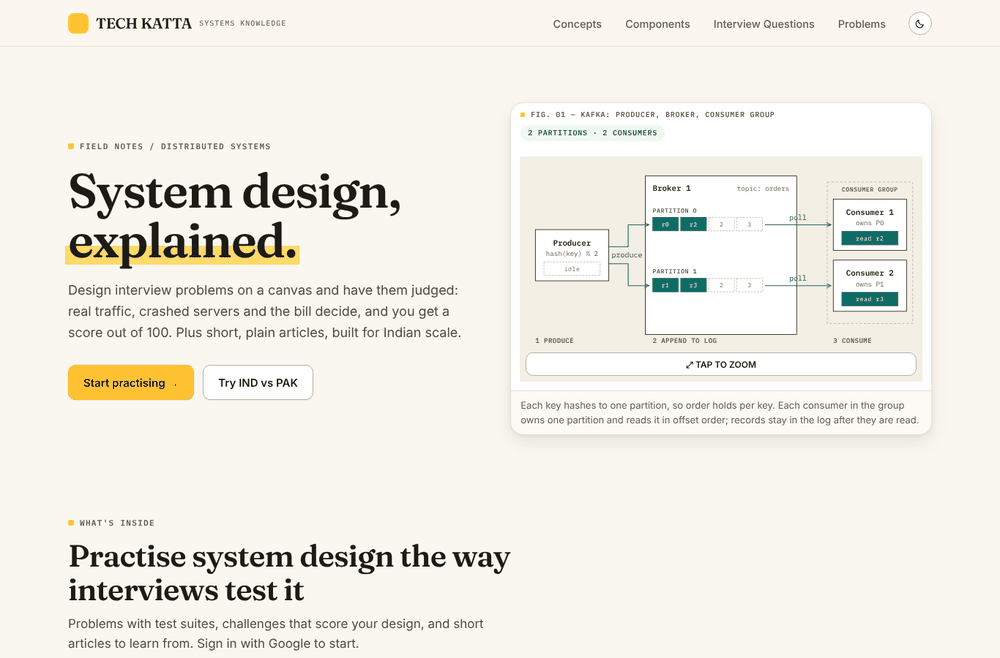
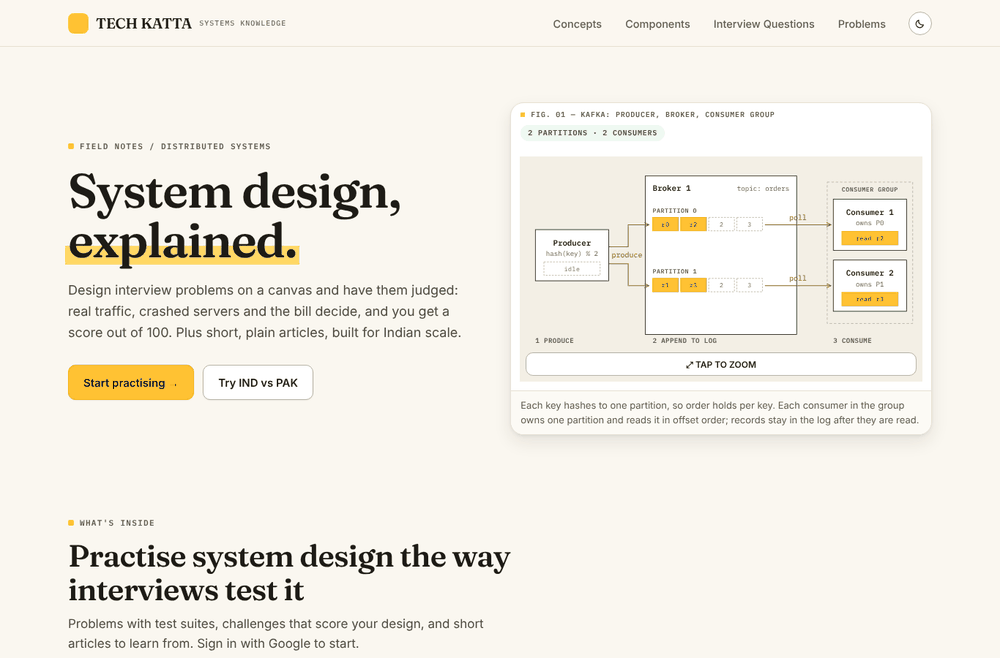
UI redesign spec: figures stay in the yellow family (#160)
--accent is ochre in light and marigold in dark; filled figure boxes use the brand colour with ink text (WP1 step 7). Teal dropped. Rules, contrast figures and pictures updated.

diff --git a/20-UI-REDESIGN-SPEC.md b/20-UI-REDESIGN-SPEC.md
@@ -1,6 +1,6 @@
 # 20 — UI redesign spec: "Katta Paper"
 
-**Status:** approved direction to build, not yet built. Written 12 Nov 2026; revised the same day, twice: the old blue in figures and the canvas replaced by teal after the owner's review of the first pictures; then a motion layer added (section 4.5, WP8, Appendix D).
+**Status:** approved direction to build, not yet built. Written 12 Nov 2026; revised the same day after the owner's reviews: the old blue in figures and the canvas replaced (first by teal, rejected; now by ochre lines with marigold fills, so the whole site stays in one yellow family), and a motion layer added (section 4.5, WP8, Appendix D).
 **Who reads this:** the agent that will write the code. It is written so that you can follow it top to bottom
 without making design decisions. Where a decision belongs to the owner, it is listed in section 10 and you leave it alone.
 **What it replaces:** the "Swiss publishing" look that is live on tech.katta.cc, and the direction in the app repo's
@@ -20,6 +20,11 @@ Look at them before you start, and compare your build against them when you fini
 | `07-workspace.png`, `11-workspace-result.png` | Problem workspace: a component selected on the canvas; the result sheet after Run |
 | `08-phones.png` | Pixel 7: landing, section, problems, article (light), article and landing (dark) |
 | `09-dark.png` | Dark mode: landing, problems, workspace |
+| `12-figures-ochre-marigold.png` | **The final figure colours**: landing diagram light and dark, and the canvas with a component selected |
+
+**Colour note on the pictures.** Pictures 01, 02, 05, 07 and 12 show the final colours. Pictures 08 to 11 were taken
+one revision earlier, when figure lines and links were teal: use them for layout, sizes and spacing only. Wherever
+they show teal, the build must show ochre lines and marigold fills as in picture 12.
 
 ---
 
@@ -30,7 +35,7 @@ Look at them before you start, and compare your build against them when you fini
    (commit `01adfbe` of `tech-katta`, the state after PR #308). Do not "improve" values. If something looks wrong,
    first check that you pasted the block at the **end** of the right file.
 3. **Do not change any JSX, content, route, test or backend file** except the small edits listed in section 8
-   (WP1, WP2 and WP8). The redesign is almost entirely CSS.
+   (WP1, WP2 and WP8; WP1 includes one-line edits to `palette.js` and `main.jsx`). The redesign is almost entirely CSS.
 4. **No colour codes outside `frontend/src/theme/`.** `theme.test.js` fails the build if you write `#abc`, `rgb(…)`
    or a colour keyword in any other stylesheet or script. Use `var(--name)`.
 5. **Every change must look right in light and dark, on a desktop and on a phone.** About three quarters of visitors
@@ -160,7 +165,7 @@ personality, never corporate and never a toy.
 | Headings | **Fraunces** (a serif), weight 600 | Warm and confident, like Brilliant and samwho; every competitor uses a plain sans, so this alone makes the site recognisable. Tested against seven other typefaces in a specimen |
 | Body and controls | **Inter** (already on the site) | The most readable choice at small sizes; no new download for body text |
 | Labels | **IBM Plex Mono** (already on the site), only for eyebrows, table heads and figure captions | Keeps the engineering flavour, in small doses |
-| **Second colour** | **Peacock teal `#0f6b66`** replaces the old blue everywhere: links, focus rings, hover outlines, "the path that works" in every figure, and the handles, arrows and labels on the canvas | The old blue (`#2855d9`) is cold and fought with the warm paper; the owner pointed this out on the first build. `--accent` is read 228 times in the stylesheets and by every figure through `palette.js`, so changing the token recolours all of them at once. Teal sits beside marigold and paper, and still reads clearly against red (trouble) |
+| **Working colour** | **Ochre `#94600a`**, the dark end of the marigold family, replaces the old blue as `--accent`: links, focus rings, hover outlines, lines and labels of "the path that works" in every figure, handles and live arrows on the canvas. **Filled boxes in figures are marigold with ink text, never a solid ochre block.** In dark mode `--accent` is marigold itself | The owner rejected, in turn, the old blue (cold), teal (a foreign colour in the middle of the page) and solid ochre boxes (muddy). One colour family keeps the whole site in the yellow scheme. `--accent` is read 228 times in the stylesheets and by every figure through `palette.js`, so the token recolours all of them at once |
 | Warning colour | Moved from amber to orange | So a warning never looks like the brand |
 | One dark card | The "practise this" call-out inside an article is ink-coloured with marigold text | One strong invitation per article; used nowhere else |
 
@@ -169,7 +174,8 @@ personality, never corporate and never a toy.
 - No pixel, dot-matrix or bitmap lettering. No pastel wash cards in several colours. No buttons with a thick dark
   bottom edge. No tilted cards. (These are another site's signatures.)
 - No gradients except the highlighter stroke. No glow, no glass cards, no neon.
-- No third colour. Marigold is the brand; teal is the working colour for links, figures and the canvas. Nothing else. **No blue anywhere**: if you see the old blue (`#2855d9`) or any blue in the build, a token was missed.
+- No second hue. Everything coloured is in the marigold family: marigold for fills, ochre for thin lines and small text. **No blue and no teal anywhere**: if you see the old blue (`#2855d9`) in the build, a token was missed. Red, green and orange appear only as status (trouble, passed, warning).
+- No large solid ochre areas. Ochre is for lines, outlines, icons and text. A filled shape is marigold (with ink text) or a pale tint.
 - No capital mono text for anything a person taps (buttons, tabs, nav).
 - No more than **one** marigold button visible in any one region of a screen (header, page body, toolbar).
 - No more than **one** highlighter stroke per screen.
@@ -202,11 +208,11 @@ All values live in `frontend/src/theme/tokens.css` (Appendix A). This section ex
 | `--brand-tint`, `--brand-line` | `#fff3cf`, `#f0d388` | `#30260f`, `#5f4813` | Tinted boxes and their border; active sidebar row |
 | `--on-brand` | `#1d1b16` | `#1d1b16` | Text on marigold. Always ink, in both themes |
 | `--mark` | `#ffd866` | `#7d5c00` | The highlighter stroke |
-| `--accent` family (teal) | `#0f6b66`, strong `#0b524e`, mid `#7fc4bd`, line `#b5ddd8`, soft `#d3ece8`, tints `#e4f3f0` `#f0f8f6` | `#5fd0c4`, `#8ae0d6`, `#2f8078`, `#24544f`, `#1b3f3b`, `#17302d` `#132624` | Links, focus rings, hover outlines, figures (works = teal), canvas handles and live arrows |
+| `--accent` family (ochre; marigold in dark) | `#94600a`, strong `#754a00`, mid `#e9b949`, line `#f0d388`, soft `#ffe08a`, tints `#ffedb8` `#fff6dc`, `--on-accent` `#fff` | `#ffc233`, `#ffd466`, `#a87a10`, `#5f4813`, `#4a3a12`, `#3a2e10` `#2b230f`, `--on-accent` `#1d1b16` | Links, focus rings, hover outlines, figure lines and labels (works = ochre), tinted figure boxes, canvas handles and live arrows |
 | `--danger`, `--success`, `--warn` families | red, green, orange | lighter versions | Status. Difficulty pills: Easy = success, Medium = warn, Hard = danger |
 
 Measured contrast (WCAG needs 4.5:1 for text): ink on page 16.1, body (`--ink-2`) on page 11.1, `--muted` on page
-6.2 and on `--surface` 5.8, `--faint` on page 4.8, ink on marigold 10.7, `--accent` (teal) on page 5.9, `--success` on its
+6.2 and on `--surface` 5.8, `--faint` on page 4.8, ink on marigold 10.7, `--accent` (ochre) on page 5.0 and on white 5.3, `--success` on its
 tint 5.0, `--warn` on its tint 5.7, `--danger` on its tint 6.1. Dark mode: all of these are 4.7 or higher.
 
 **Rules.** Marigold is a background or a line, **never the colour of text on paper** (it fails contrast); for
@@ -268,12 +274,12 @@ Depth comes from a 1 px border **and** a very soft shadow together. Never a hard
 | **Difficulty pill** | Tinted pill: Easy green, Medium orange, Hard red | `.pb-tag.easy/.medium/.hard` |
 | **Problems table** | One white card; mono capital head on `--surface-2`; rows split by hairlines; row hover `--surface-2`. On phones each row becomes its own card | `.qt-table` |
 | **"In 30 seconds"** | `--surface` well, no border | `.a-tldr` |
-| **Worked example** | `--accent-tint` (pale teal) box with `--accent-line` border, mono label in `--accent` | `.a-example` |
+| **Worked example** | `--accent-tint` (pale yellow) box with `--accent-line` border, mono label in `--accent` | `.a-example` |
 | **Analogy** | `--brand-tint` with a 3 px marigold bar on the left | `.a-analogy` |
 | **Practise call-out** | The one dark card: `--inverse` fill, Fraunces sentence in `--on-inverse`, label and arrow in marigold | `.a-lab` |
 | **Figure** | White card, 14 px corners, mono caption strip on `--surface-2` | `.a-fig`, `.figure` |
 | **Header** | 64 px (dashboard 68 px), see-through page colour with a 14 px blur, 1 px line below | `.header`, `.d-head` |
-| **Focus ring** | 2 px `--accent` (teal), 2 px offset, on every link and button | global |
+| **Focus ring** | 2 px `--accent` (ochre), 2 px offset, on every link and button | global |
 
 ### 4.5 Motion: where things move, and where they do not
 
@@ -302,7 +308,7 @@ pulse, for skeletons; no parallax on text and no scroll-jacking; honour reduced 
 | 10 | Phone problem result | Pops in | Same moment, phone version | 0.22 s |
 | 11 | Loading skeleton lines | A light sweep runs across them | Tells the visitor the page is working | 1.4 s loop (the only new loop) |
 | 12 | Landing sections below the hero | Cards and the IND vs PAK problem rise as they scroll into view | Rewards scrolling; shows there is more | Tied to scrolling |
-| 13 | **Article reading progress** | A 2 px teal line under the header fills as you read | Long articles (20 minutes and more): shows how far you are | Tied to scrolling |
+| 13 | **Article reading progress** | A 2 px ochre line under the header fills as you read | Long articles (20 minutes and more): shows how far you are | Tied to scrolling |
 
 Items 12 and 13 use CSS scroll timelines. Browsers that do not have them (older Safari and Firefox) simply show the
 content with no effect and no progress line. That is intended; do not add a JavaScript fallback.
@@ -373,8 +379,8 @@ Each page: what changes for the visitor. The CSS that does it is in Appendix C; 
 - Problem title Fraunces 30 px. The "how this works" note is a `--surface` box with a marigold bar on the left (not a coloured tint).
 - Toolbar: Timer, Reset, Run are second buttons; **Submit is the only marigold button**.
 - Palette items: white rows with a border. Selected node on the canvas: 3 px marigold ring.
-- Node states (`.ln.warn`, `.ln.down`, `.ln.sel`) keep their borders and meanings. **Do not restyle node internals.** Node labels, handles and live arrows turn teal by themselves because they read `--accent` (CSS) or `BLUE` from `palette.js` (which is `--accent`).
-- **Figures are not edited.** All 232 article figures and the landing diagram take their colours from `palette.js`: the short name `BLUE` is `--accent`, `LB` is `--accent-tint`, `FB` is `--accent-soft`, `GREY` is `--line-strong`. They become teal on warm paper as soon as WP1 is done. Leave the names as they are (renaming them is a separate clean-up).
+- Node states (`.ln.warn`, `.ln.down`, `.ln.sel`) keep their borders and meanings. **Do not restyle node internals.** Node labels, handles and live arrows turn ochre by themselves because they read `--accent` (CSS) or `BLUE` from `palette.js` (which is `--accent`).
+- **Figures are not edited.** All 232 article figures and the landing diagram take their colours from `palette.js`: the short name `BLUE` is `--accent`, `LB` is `--accent-tint`, `FB` is `--accent-soft`, `GREY` is `--line-strong`. They become ochre lines with pale-yellow boxes as soon as WP1 is done. Leave the names as they are (renaming them is a separate clean-up). The one figure with solid filled boxes, the landing diagram, is switched to marigold fills in WP1 step 7.
 - Hints: white cards; an opened hint turns marigold tint.
 
 ### 5.7 Sign-in card, account menu, tour, status (`account.css`, `tour.css`, `status.css`)
@@ -463,8 +469,26 @@ One pull request for all of them is fine. Commit after each package.
    | `<style>html[data-theme=dark]{color-scheme:dark;background:#12171e}</style>` | `<style>html{background:#faf7f0}html[data-theme=dark]{color-scheme:dark;background:#15140f}</style>` |
 
    (If you skip this, the dark landing page shows the old navy background. That is the sign you missed it.)
+7. Marigold fills for the landing diagram (the only figure with solid filled boxes). Four exact replacements:
 
-**Check:** `npm test` prints `fail 0`. Build and open `/` and an article: colours are warm, every figure is teal instead of blue, but the layout is still the old one and old buttons are teal. That is expected; the next packages fix them.
+   In `frontend/src/theme/palette.js`:
+
+   | Find | Replace with |
+   |---|---|
+   | `CAT_TEAL,CAT_PINK;` | `CAT_TEAL,CAT_PINK,BRAND,BRAND_EDGE,ON_BRAND;` |
+   | `"cat-teal":CAT_TEAL,"cat-pink":CAT_PINK}=t)}` | `"cat-teal":CAT_TEAL,"cat-pink":CAT_PINK,brand:BRAND,"brand-edge":BRAND_EDGE,"on-brand":ON_BRAND}=t)}` |
+
+   In `frontend/src/main.jsx`:
+
+   | Find | Replace with |
+   |---|---|
+   | `import{BG,BLUE,FAINT,ON_ACCENT}from"./theme/palette.js"` | `import{BG,BLUE,FAINT,BRAND,BRAND_EDGE,ON_BRAND}from"./theme/palette.js"` |
+   | `C:[BLUE,BLUE,ON_ACCENT]` | `C:[BRAND,BRAND_EDGE,ON_BRAND]` |
+
+   Each "Find" text occurs exactly once. If one is not found, stop and report; do not guess.
+   **Rule for any figure you touch later:** a filled shape uses `BRAND` with `ON_BRAND` text; `BLUE` (ochre) is for strokes and text only.
+
+**Check:** `npm test` prints `fail 0`. Build and open `/` and an article: colours are warm, every figure has ochre lines and pale-yellow boxes instead of blue, the landing diagram's filled boxes are marigold with dark text, but the layout is still the old one and old buttons are ochre. That is expected; the next packages fix them.
 
 ### WP2 — The highlighter on the landing headline
 
@@ -527,7 +551,7 @@ production (sign-in is off locally); check it on the preview deployment of the p
 
 **Check** (with your browser's reduced-motion setting **off**): reload `/`: the hero text steps in and the marigold
 stroke is drawn under the last word about half a second later. Scroll down: the four cards rise as they enter.
-Open `/dashboard/concepts/`: the cards rise in turn. Open an article and scroll: a thin teal line grows under the
+Open `/dashboard/concepts/`: the cards rise in turn. Open an article and scroll: a thin ochre line grows under the
 header (Chrome, Edge or Android). In a problem press Run: the result sheet slides up. On a phone open an article and
 tap a figure's full-screen button: it must still fill the screen. Then turn reduced motion **on** and reload: nothing
 animates, everything is in its final place, and the progress line still works.
@@ -555,9 +579,9 @@ squash merge, ledger row, context docs (`17-SESSION-HANDOVER.md`, `10-GIT-HISTOR
 - [ ] The end-to-end scripts the repo already has still pass (`no-lab.js`, `challenges-v2.js`, `eval-problem.js`,
       `solution-tab.js`; `08-TESTING-VALIDATION.md` and the handover say how to run them). They do not depend on colours.
 - [ ] Every page in section 7, desktop and phone, light and dark: matches the pictures; no text cut off; no
-      sideways scrolling on the phone; no blue anywhere (buttons, figures, canvas handles, note boxes); no grid paper; no navy background.
+      sideways scrolling on the phone; no blue or teal anywhere (buttons, figures, canvas handles, note boxes); no solid brown boxes in figures; no grid paper; no navy background.
 - [ ] Only one marigold button per region; only one highlighter stroke per screen.
-- [ ] Keyboard: Tab through the landing header and an article; every stop shows the teal focus ring.
+- [ ] Keyboard: Tab through the landing header and an article; every stop shows the ochre focus ring.
 - [ ] Reduced motion on (browser setting): no entrance animations, nothing moves on hover, pages are complete at once.
 - [ ] Reduced motion off: the thirteen motions in section 4.5 happen, each once; nothing loops except loading lines and the figures.
 - [ ] Phone: a figure's full-screen view still covers the whole screen (this breaks if an animation is changed to `both`).
@@ -597,7 +621,7 @@ Friends will react to this. Most reactions map to one token:
 
 | "I wish…" | Change |
 |---|---|
-| …the teal in figures and links were another colour | The nine `--accent…` tokens (light and dark) and the same keys in `palette.js` |
+| …the ochre in figures and links were another colour | The nine `--accent…` tokens (light and dark) and the same keys in `palette.js` |
 | …the yellow were another colour | The eight `--brand…` tokens and `--mark`, light and dark, and the same keys in `palette.js` |
 | …the background were plain white | `--page` (and the three `index.html` inline styles, and `theme-color`) |
 | …the headings were not serif | `--font-display` (set it to `var(--font)`), and remove the Fraunces import |
@@ -617,7 +641,7 @@ Friends will react to this. Most reactions map to one token:
    one with the theme button (<html data-theme="light|dark">, set before the page draws by public/theme-boot.js; theme/mode.js keeps it up to date).
    Rules for colour names: name the role, not the hue (--brand, not --yellow), so a new brand colour still reads right.
    The look ("Katta Paper"): warm paper page, white cards, ink text, one brand colour (marigold) for the main button,
-   the highlighter mark and "you are here"; one working colour (peacock teal) for links, focus, figures and the canvas. */
+   the highlighter mark and "you are here"; ochre (the dark end of the same family) for links, focus, and lines in figures and on the canvas. */
 :root{
   color-scheme:light;
   /* Surfaces */
@@ -650,14 +674,15 @@ Friends will react to this. Most reactions map to one token:
   --brand-tint:#fff3cf;   /* brand-tinted boxes, active sidebar row */
   --on-brand:#1d1b16;
   --mark:#ffd866;         /* the highlighter stroke under a headline word */
-  /* Accent (peacock teal): links, focus rings, hover outlines, the path that works in figures, canvas handles */
-  --accent:#0f6b66;
-  --accent-strong:#0b524e;
-  --accent-mid:#7fc4bd;
-  --accent-line:#b5ddd8;
-  --accent-soft:#d3ece8;
-  --accent-tint-2:#e4f3f0;
-  --accent-tint:#f0f8f6;
+  /* Accent (ochre; marigold in dark): links, focus rings, hover outlines, lines and labels in figures, canvas handles.
+     Use it for lines and text only. A filled shape is --brand with --on-brand text. */
+  --accent:#94600a;
+  --accent-strong:#754a00;
+  --accent-mid:#e9b949;
+  --accent-line:#f0d388;
+  --accent-soft:#ffe08a;
+  --accent-tint-2:#ffedb8;
+  --accent-tint:#fff6dc;
   --on-accent:#fff;
   /* Status */
   --danger:#b3261e;
@@ -684,7 +709,7 @@ Friends will react to this. Most reactions map to one token:
   --ink-rgb:29 27 22;
   --bg-rgb:255 255 255;
   --page-rgb:250 247 240;
-  --accent-rgb:15 107 102;
+  --accent-rgb:148 96 10;
   /* Shadows and backdrops */
   --shadow-1:0 1px 2px rgb(var(--ink-rgb) / .06);
   --shadow-2:0 2px 4px rgb(var(--ink-rgb) / .05),0 10px 24px rgb(var(--ink-rgb) / .09);
@@ -737,14 +762,14 @@ Friends will react to this. Most reactions map to one token:
   --brand-tint:#30260f;
   --on-brand:#1d1b16;
   --mark:#7d5c00;
-  --accent:#5fd0c4;
-  --accent-strong:#8ae0d6;
-  --accent-mid:#2f8078;
-  --accent-line:#24544f;
-  --accent-soft:#1b3f3b;
-  --accent-tint-2:#17302d;
-  --accent-tint:#132624;
-  --on-accent:#06201d;
+  --accent:#ffc233;
+  --accent-strong:#ffd466;
+  --accent-mid:#a87a10;
+  --accent-line:#5f4813;
+  --accent-soft:#4a3a12;
+  --accent-tint-2:#3a2e10;
+  --accent-tint:#2b230f;
+  --on-accent:#1d1b16;
   --danger:#ff8a80;
   --red:#ff7b72;
   --danger-line:#6b2c28;
@@ -767,7 +792,7 @@ Friends will react to this. Most reactions map to one token:
   --ink-rgb:0 0 0;
   --bg-rgb:30 28 22;
   --page-rgb:21 20 15;
-  --accent-rgb:95 208 196;
+  --accent-rgb:255 194 51;
   --shadow-1:0 1px 2px rgb(0 0 0 / .4);
   --shadow-2:0 2px 4px rgb(0 0 0 / .35),0 10px 24px rgb(0 0 0 / .35);
   --shadow-3:0 4px 8px rgb(0 0 0 / .4),0 18px 44px rgb(0 0 0 / .55);
@@ -779,7 +804,7 @@ Friends will react to this. Most reactions map to one token:
 ## Appendix B — `TOKENS` in `frontend/src/theme/palette.js` (one line)
 
 ```js
-export const TOKENS={page:"#faf7f0",bg:"#fff",surface:"#f3efe5","surface-2":"#fcfaf5",hover:"#efeadd",inverse:"#1d1b16","on-inverse":"#faf7f0",ink:"#1d1b16","ink-2":"#3a372f","ink-3":"#4d493f",muted:"#625c4f","muted-2":"#6b6557",faint:"#736d5d",disabled:"#cdc7b6","line-strong":"#b9b2a0",line:"#e6e0d1","line-soft":"#ddd6c4",grid:"#f0ebde",brand:"#ffc233","brand-strong":"#f2ac00","brand-edge":"#d79a00","brand-ink":"#6e4a00","brand-line":"#f0d388","brand-tint":"#fff3cf","on-brand":"#1d1b16",mark:"#ffd866",accent:"#0f6b66","accent-strong":"#0b524e","accent-mid":"#7fc4bd","accent-line":"#b5ddd8","accent-soft":"#d3ece8","accent-tint-2":"#e4f3f0","accent-tint":"#f0f8f6","on-accent":"#fff",danger:"#b3261e",red:"#d23b30","danger-line":"#f3c6c1","danger-soft":"#fce1de","danger-tint":"#fff4f2",success:"#17794a","success-line":"#b5e0c6","success-tint":"#ecf8f0",warn:"#9c4a00","warn-strong":"#7a3900","warn-mid":"#e8700c","warn-line":"#f5cfa9","warn-tint":"#fff3e6",star:"#e8a308","cat-green":"#1f8a5b","cat-amber":"#b7791f","cat-violet":"#7c3aed","cat-teal":"#0e7490","cat-pink":"#be185d"};
+export const TOKENS={page:"#faf7f0",bg:"#fff",surface:"#f3efe5","surface-2":"#fcfaf5",hover:"#efeadd",inverse:"#1d1b16","on-inverse":"#faf7f0",ink:"#1d1b16","ink-2":"#3a372f","ink-3":"#4d493f",muted:"#625c4f","muted-2":"#6b6557",faint:"#736d5d",disabled:"#cdc7b6","line-strong":"#b9b2a0",line:"#e6e0d1","line-soft":"#ddd6c4",grid:"#f0ebde",brand:"#ffc233","brand-strong":"#f2ac00","brand-edge":"#d79a00","brand-ink":"#6e4a00","brand-line":"#f0d388","brand-tint":"#fff3cf","on-brand":"#1d1b16",mark:"#ffd866",accent:"#94600a","accent-strong":"#754a00","accent-mid":"#e9b949","accent-line":"#f0d388","accent-soft":"#ffe08a","accent-tint-2":"#ffedb8","accent-tint":"#fff6dc","on-accent":"#fff",danger:"#b3261e",red:"#d23b30","danger-line":"#f3c6c1","danger-soft":"#fce1de","danger-tint":"#fff4f2",success:"#17794a","success-line":"#b5e0c6","success-tint":"#ecf8f0",warn:"#9c4a00","warn-strong":"#7a3900","warn-mid":"#e8700c","warn-line":"#f5cfa9","warn-tint":"#fff3e6",star:"#e8a308","cat-green":"#1f8a5b","cat-amber":"#b7791f","cat-violet":"#7c3aed","cat-teal":"#0e7490","cat-pink":"#be185d"};
 ```
 
 ## Appendix C — blocks to append
@@ -1307,7 +1332,7 @@ a:focus-visible,button:focus-visible{outline:2px solid var(--accent);outline-off
     .inside-grid li,.lp-lab,.lp .ch-title,.lp .ch-desc{animation:tk-rise linear both;animation-timeline:view();animation-range:entry 0% entry 55%}
   }
 }
-/* 7. Reading progress: a thin teal line under the header fills as you scroll an article. It follows the reader's own
+/* 7. Reading progress: a thin line under the header fills as you scroll an article. It follows the reader's own
    scrolling, so it stays on under reduced motion. Browsers without scroll timelines show nothing. */
 @supports (animation-timeline:scroll()){
   .dash:has(.d-read) .d-head::after{content:"";position:absolute;left:0;right:0;top:100%;height:2px;background:var(--accent);transform-origin:0 50%;animation:tk-progress linear both;animation-timeline:scroll(root)}

diff --git a/17-SESSION-HANDOVER.md b/17-SESSION-HANDOVER.md
@@ -68,7 +68,7 @@ production** so friends see it and the owner asks them for feedback (no A/B or p
   fanout.sh was rejected ("You are just copying the fanout.sh website UI"); the owner then asked for research across
   the best technical-content sites, a direction that suits Tech Katta, and a spec a less capable agent can build from.
   The spec: 24 sites surveyed (Stripe docs, react.dev, Vercel, Linear, MDN, Brilliant, samwho, NeetCode, competitors),
-  the identity (warm paper `#faf7f0`, ink, one brand colour marigold `#ffc233`, peacock teal `#0f6b66` as `--accent` in place of the old blue so figures, links and the canvas match (owner, same day: the figures and lab parts "still retain the Swiss publishing colour scheme"), a highlighter stroke as the
+  the identity (warm paper `#faf7f0`, ink, one brand colour marigold `#ffc233`, ochre `#94600a` as `--accent` (marigold itself in dark) in place of the old blue, with filled figure boxes in marigold, so figures, links and the canvas stay in one yellow family (owner, same day: the old blue "does not go well"; then teal rejected: "maintain the yellow colour scheme"; then solid ochre boxes rejected: "Did not like the colour filled in"), a highlighter stroke as the
   signature, Fraunces headings + Inter + IBM Plex Mono), the full `tokens.css`, a CSS block to append to each of 16
   stylesheets, a new `theme/motion.css` (owner, same day: "think on where we can embedd animations"; 13 places, CSS only, guidelines checked against the ui-ux-pro-max-skill dataset: hero step-in and drawn highlighter, page and card entrances, result sheet slide-up, scroll reveals and an article reading-progress line via CSS scroll timelines, all off under reduced motion), a few small non-CSS edits, ten ordered work packages with checks, and pictures in `ui-redesign/`.
   The code in it was built on `01adfbe` and viewed (tests 235 pass); it lists what was not viewed. **Not built in the
